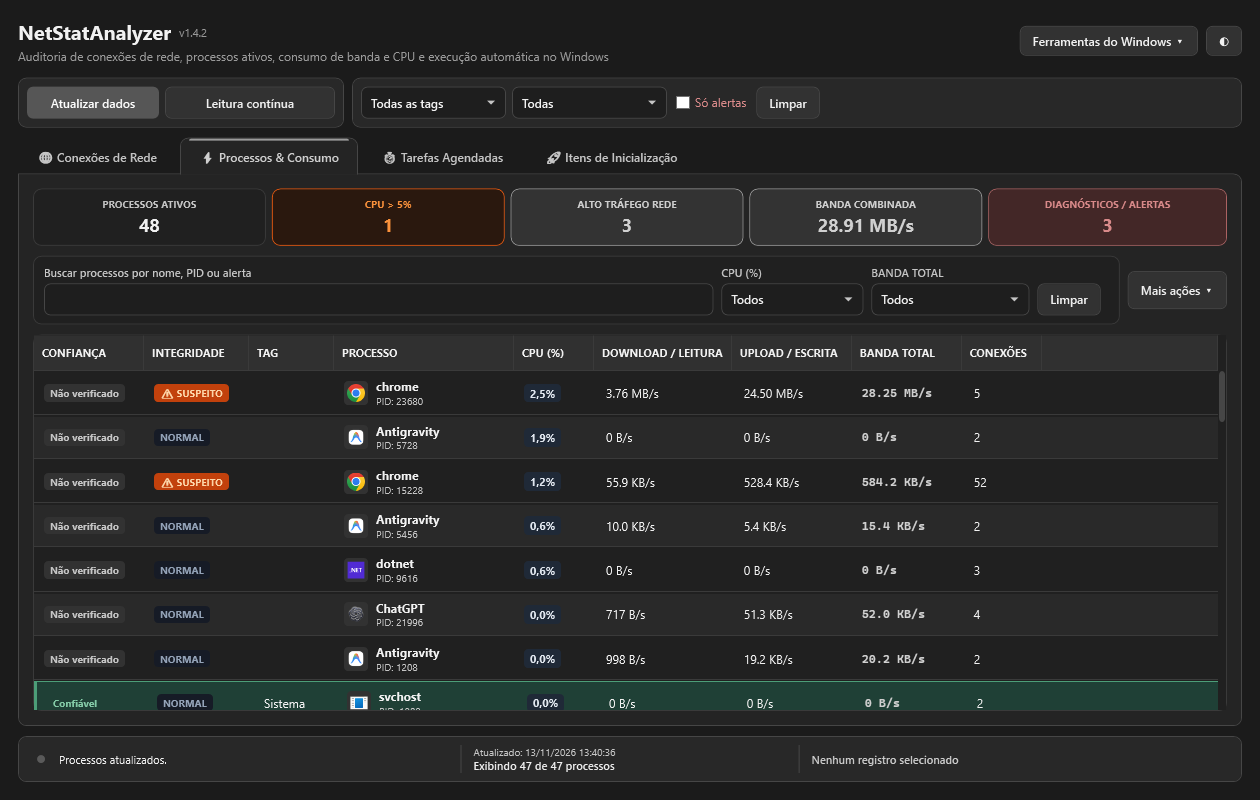
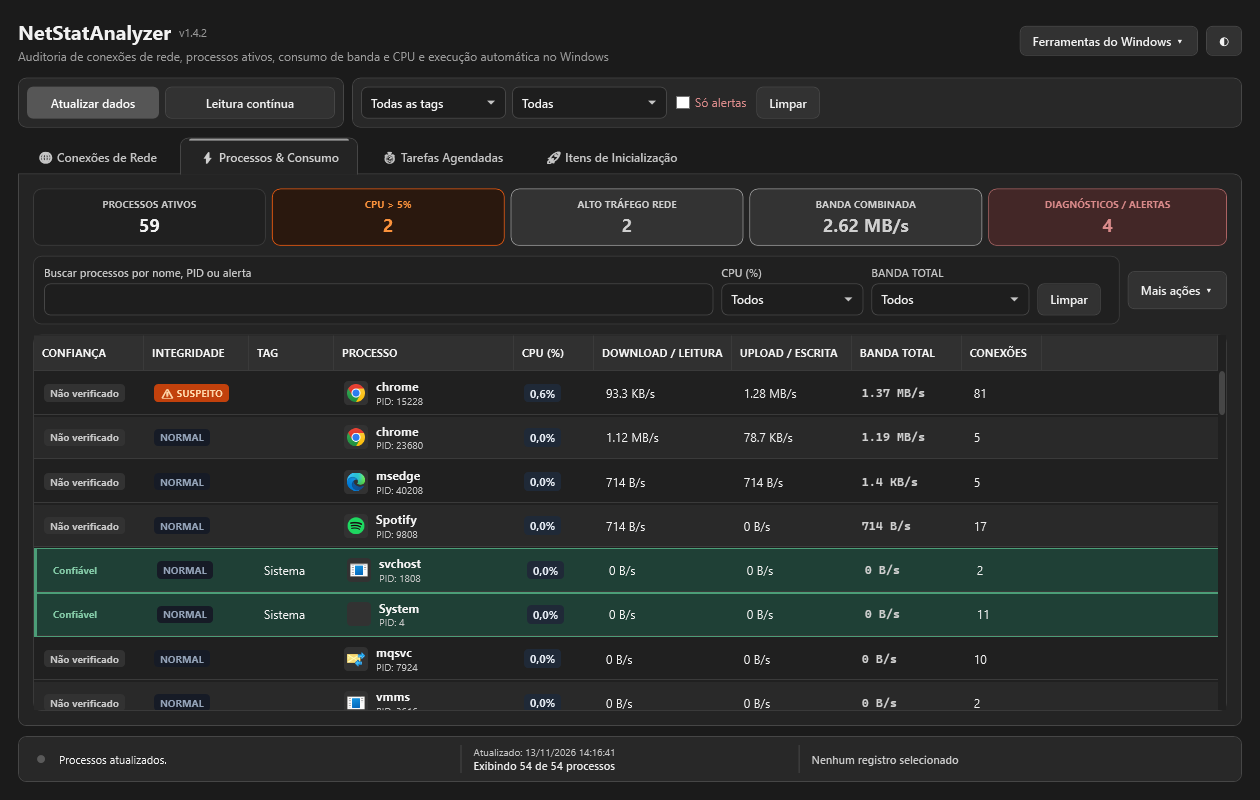
feat(ui): expose ApplyTheme method for external access
Enables external components to apply themes dynamically, enhancing flexibility in UI customization.

Key Changes:
- Changed the visibility of the ApplyTheme method from private to public in MainWindow.xaml.cs.
- Updated README to reflect the theme toggle functionality and added new light theme image previews.
- Added a new image for the light theme to the documentation for better user guidance.

diff --git a/MainWindow.xaml.cs b/MainWindow.xaml.cs
@@ -355,7 +355,7 @@ namespace NetStatAnalyzer
             ["DataGridSelectionBorder"] = "#BEBEBE", ["DataGridGridline"] = "#3A3A3A"
         };
 
-        private void ApplyTheme(string theme)
+        public void ApplyTheme(string theme)
         {
             var palette = theme == "Light" ? LightPalette : DarkPalette;
             foreach (var (key, hex) in palette)

diff --git a/README.md b/README.md
@@ -75,7 +75,7 @@ Relatórios de inteligência de ameaças alertam sobre o risco decorrente de sof
 - **Tags e confiança:** selecione registros em qualquer aba e use o botão direito ou **Mais ações**. Tags são compartilhadas entre as abas e podem ser filtradas globalmente; a confiança também pode ser atribuída a processos, tarefas e itens de inicialização.
   - Escolha uma tag salva ou digite uma nova.
   - Deixe o campo vazio para remover a tag dos itens selecionados.
-- **Tema:** o ícone no canto superior direito alterna entre claro e escuro. O tema escuro usa superfícies grafite e realces neutros, preservando cores semânticas para alertas. O claro usa cinzas com botões de alto contraste. A preferência é lembrada em `allowlist.json`.
+- **Tema (Claro e Escuro):** o ícone no canto superior direito alterna entre os modos claro e escuro a qualquer momento. A aplicação dispõe tanto do **tema escuro** (com superfícies grafite e realces neutros, preservando cores semânticas de alertas) quanto de uma **versão clara** completa (com paleta suave em cinzas e botões de alto contraste, ideal para ambientes bem iluminados). A preferência é lembrada em `allowlist.json`.
 - **Barra de status:** mantém áreas fixas para estado da leitura, data e quantidade de dados da aba, e resumo dos registros selecionados.
 - **Exportação:** cada aba exporta os registros exibidos em JSON, com data da coleta, tag, confiança e os detalhes técnicos disponíveis.
 
@@ -101,7 +101,10 @@ As tags e a confiança dos registros são armazenadas localmente em `allowlist.j
   Faz amostragem automática a cada 2 segundos e exibe um indicador visual animado de status.
 
 <div align="center">
-<img src="docs/images/preview-main.png" alt="Aba de Conexões de Rede" width="900" />
+<img src="docs/images/preview-main.png" alt="Aba de Conexões de Rede - Tema Escuro" width="900" />
+<br><br>
+<img src="docs/images/preview-main-light.png" alt="Aba de Conexões de Rede - Versão Clara (Tema Claro)" width="900" />
+<p><em>NetStatAnalyzer: visualização em tema escuro (padrão) e versão clara (light theme) da aba de conexões de rede.</em></p>
 </div>
 
 ---

diff --git a/docs/images/README.md b/docs/images/README.md
@@ -5,13 +5,16 @@ Este diretório armazena as capturas de tela e recursos visuais utilizados no `R
 ### Capturas de referência da interface:
 
 1. **`preview-main.png`**:
-   - Versão 1.4.2 na aba **Conexões de Rede**, com os controles comuns, métricas, filtros locais, colunas de confiança, integridade, tag e dados da conexão, além da barra de status compartilhada.
+   - Versão 1.4.2 na aba **Conexões de Rede** (Tema Escuro padrão), com os controles comuns, métricas, filtros locais, colunas de confiança, integridade, tag e dados da conexão, além da barra de status compartilhada.
 
-2. **`preview-processes.png`**:
+2. **`preview-main-light.png`**:
+   - Versão 1.4.2 na aba **Conexões de Rede** exibindo a **Versão Clara (Tema Claro)**, demonstrando a adaptação completa de paleta, cards e tabelas para ambientes iluminados.
+
+3. **`preview-processes.png`**:
    - Aba **Processos & Consumo**, com filtros locais por CPU e banda, confiança e tag por registro, diagnóstico de integridade, tráfego agregado e barra de status.
 
-3. **`preview-scheduled-tasks.png`**:
+4. **`preview-scheduled-tasks.png`**:
    - Aba **Tarefas Agendadas**, parte da área de execução automática do Windows, com filtros próprios, confiança e tag por tarefa, indicadores de integridade e detalhes de agendamento.
 
-4. **`preview-startup-items.png`**:
+5. **`preview-startup-items.png`**:
    - Aba **Itens de Inicialização**, com origem, tipo e caminho dos itens, confiança e tag por registro, indicadores de integridade e a barra de status compartilhada.
